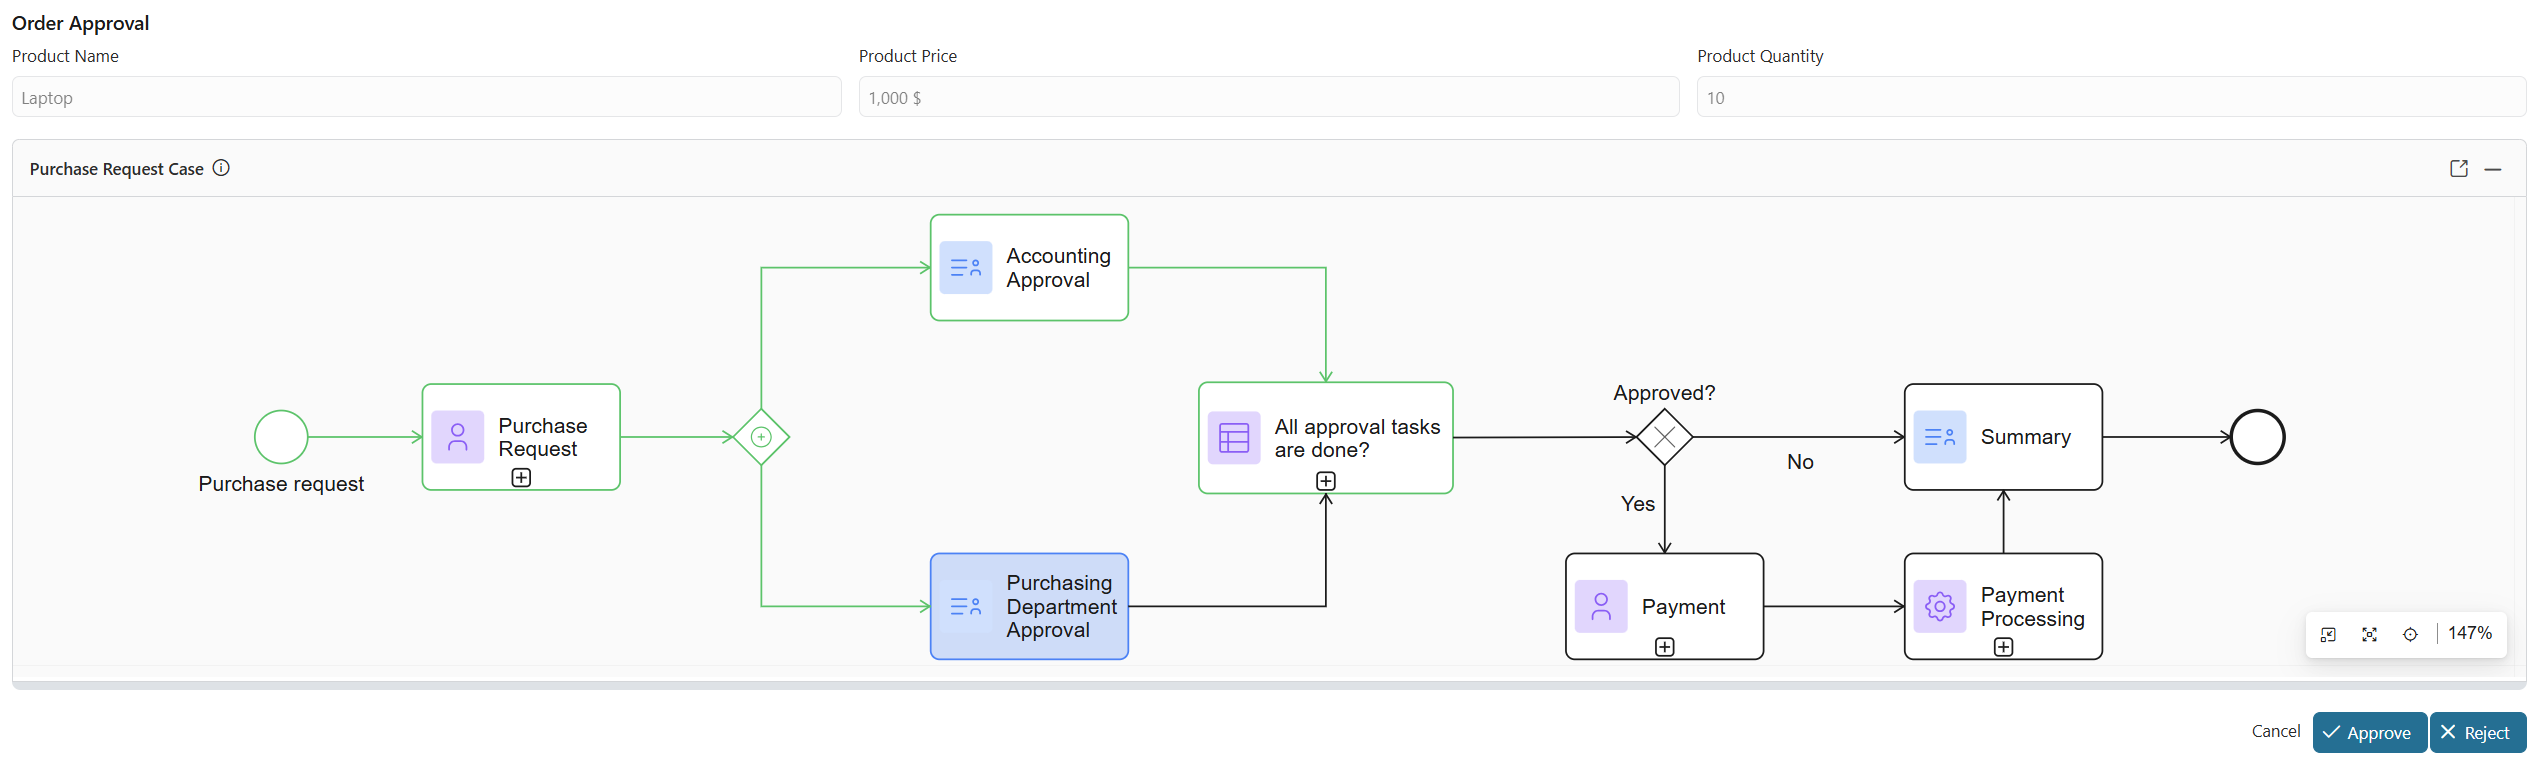
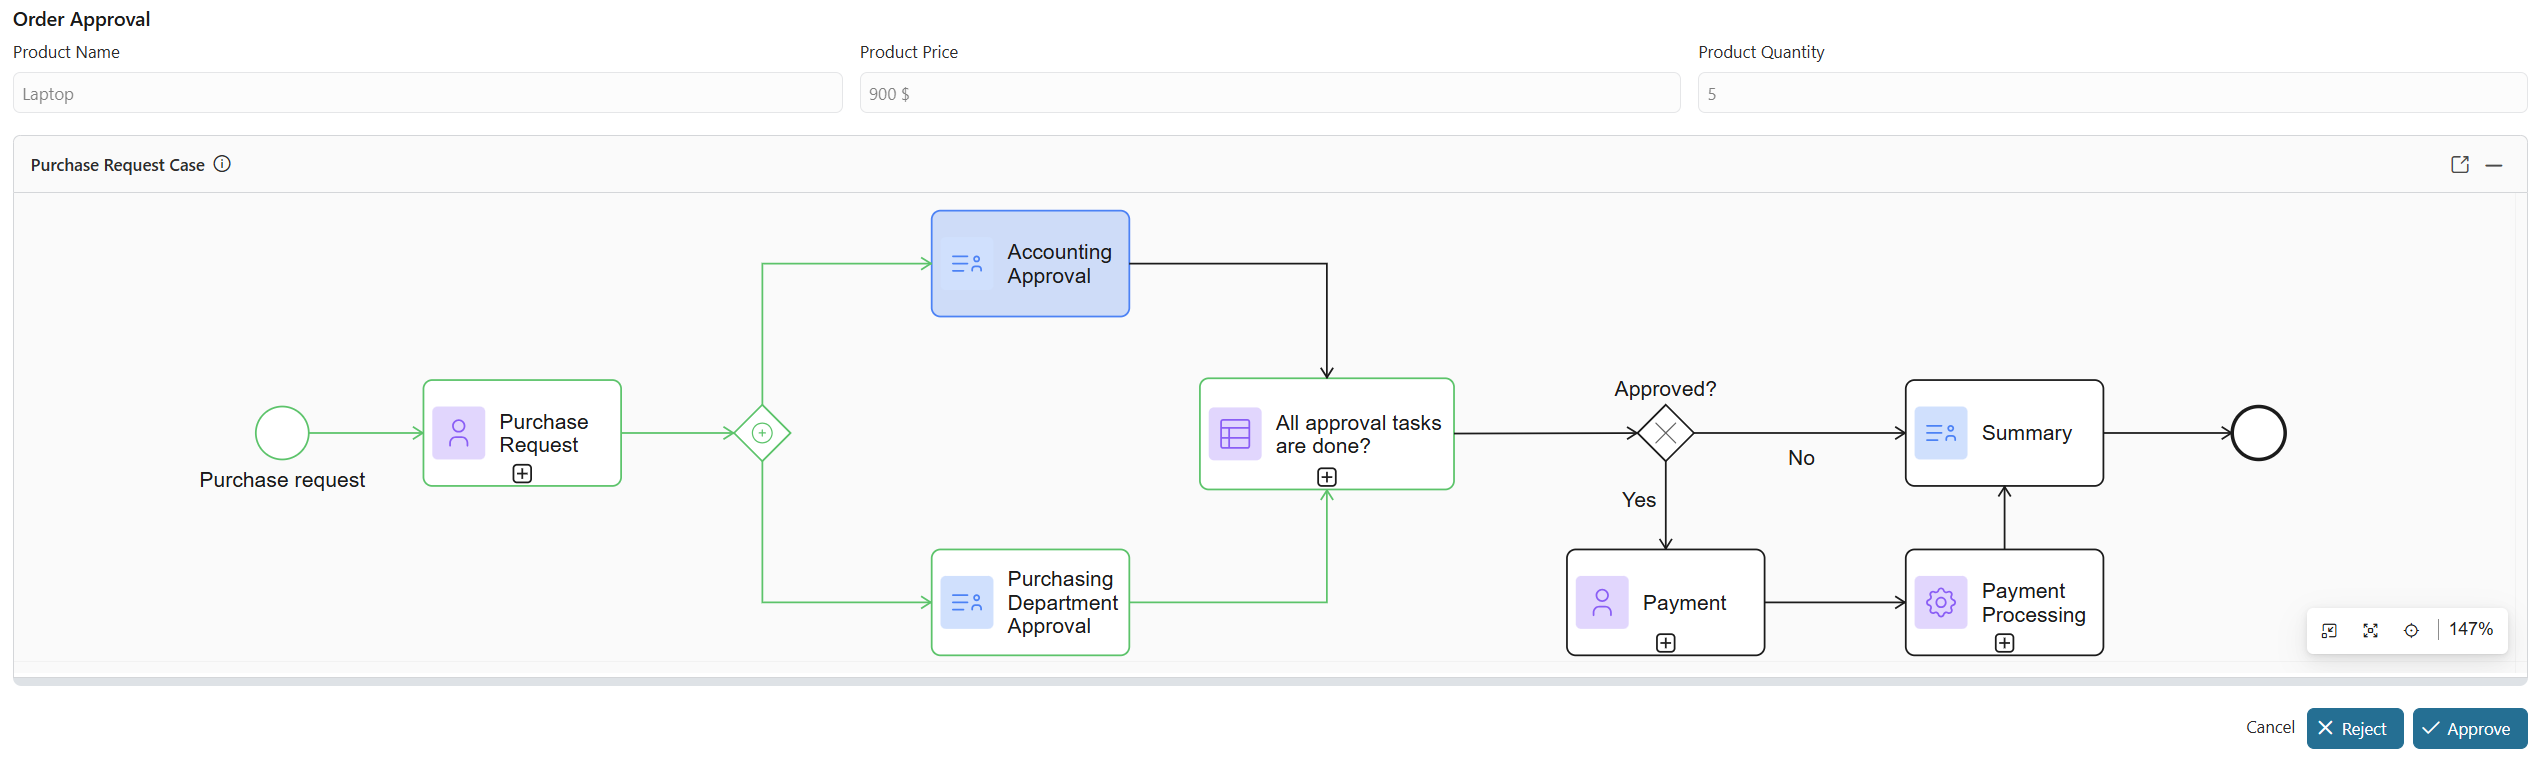
Handle feedback

diff --git a/case-process-viewer/webContent/resources/case-process-viewer.css b/case-process-viewer/webContent/resources/case-process-viewer.css
@@ -15,7 +15,8 @@
   .ruleBpmnElement.active .sprotty-node:not(.sprotty-task-node),
   .receiveBpmnElement.active .sprotty-node:not(.sprotty-task-node),
   .taskSwitchGateway.active .sprotty-node:not(.sprotty-task-node),
-  .serviceBpmnElement.active .sprotty-node:not(.sprotty-task-node) {
+  .serviceBpmnElement.active .sprotty-node:not(.sprotty-task-node),
+  .genericBpmnElement.active .sprotty-node:not(.sprotty-task-node) {
   fill: rgba(59, 130, 246, 0.25);
 }
 
